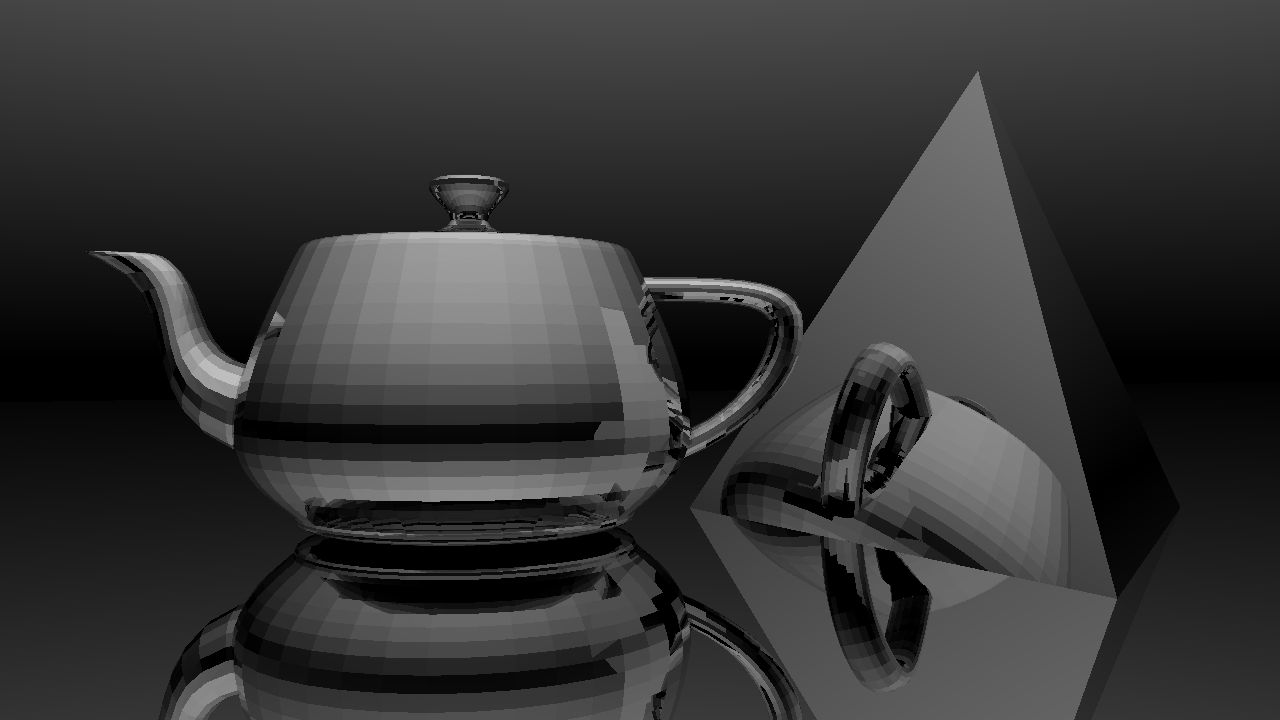
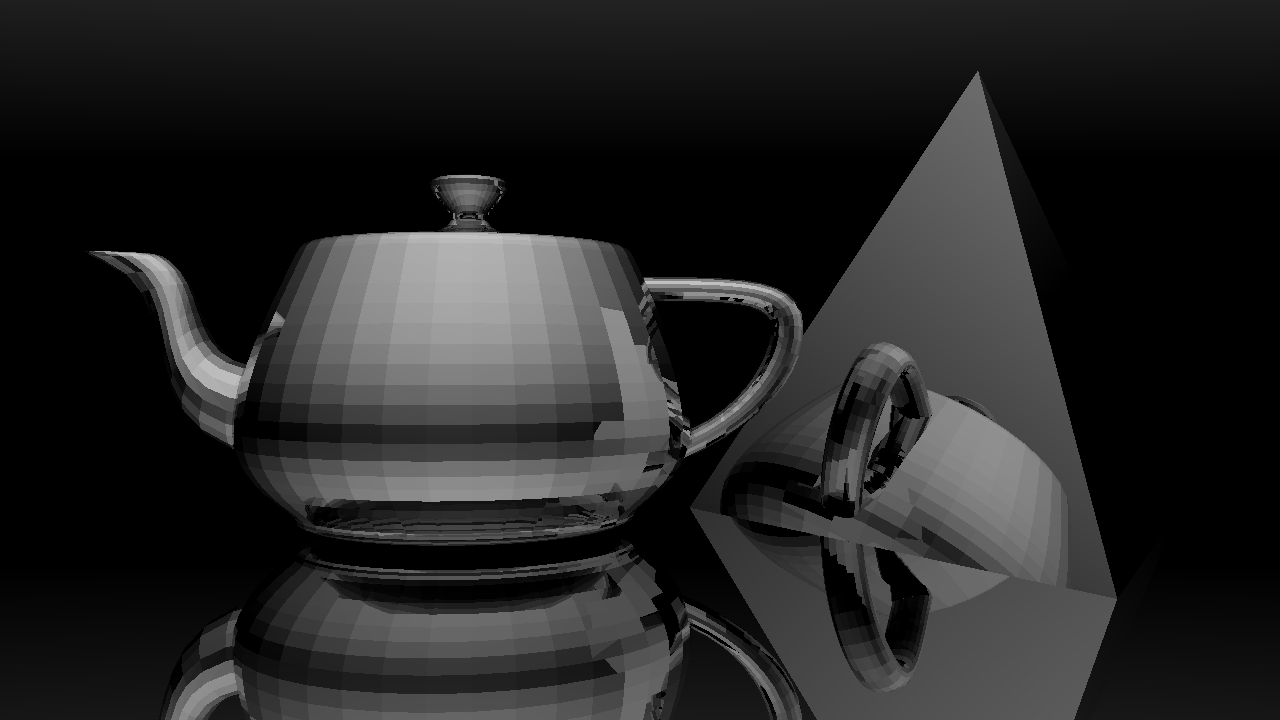
add more comments, add README.md

diff --git a/main.cpp b/main.cpp
@@ -101,7 +101,7 @@ float GetIntersect(array<Vector, 3>& V, Ray& R) {
     if (v < 0 || u + v > 1) {
         return 0;
     }
-    return DOT(E2, Q) / d - 0.001; // avoid overshooting
+    return DOT(E2, Q) / d - 0.001; // minus 0.001 to avoid overshooting
 }
 
 Vector GetReflect(array<Vector, 3>& V, Vector& D) {
@@ -116,7 +116,7 @@ float TraceRay(int max_iters, vector<array<Vector, 3>>& scene, Ray& ray, float r
     for (int i = 0; i < max_iters; i++) {
         float min_t = 1000000;
         array<Vector, 3>* plane_ptr;
-        for (auto& plane: scene) {
+        for (auto& plane: scene) { // find plane which intersect with the ray first (closest)
             float t = GetIntersect(plane, ray);
             if (t > 0 and t < min_t) {
                 min_t = t;
@@ -156,11 +156,11 @@ int main() {
     float FOV = 60 * 0.0174; // field of view
     int WIDTH = 1280;
     int HEIGHT = 720;
-    Vector CAM_POS = { -1.5, 10, 1.5 };
-    Vector CAM_DIR = { 0, -1, 0 };
-    int MAX_ITERS = 4; // max number of iterations of tracer
+    Vector CAM_POS = { -1.5, 10, 1.5 }; // camera position
+    Vector CAM_DIR = { 0, -1, 0 }; // camera direction
+    int MAX_ITERS = 4; // max iterations of tracer
     float REFLECTANCE = 0.75;
-    Vector SUN = { 0, 0, 1 }; // vector pointing the sun
+    Vector SUN = { 0, 0.18, 1 }; // vector pointing the sun
 
     vector<array<Vector, 3>> scene = LoadScene(FILENAMES);
     float pixel = tan(FOV / 2) * 2 / WIDTH;

diff --git a/README.md b/README.md
@@ -1,0 +1,1 @@
+![image](/screen.png)
